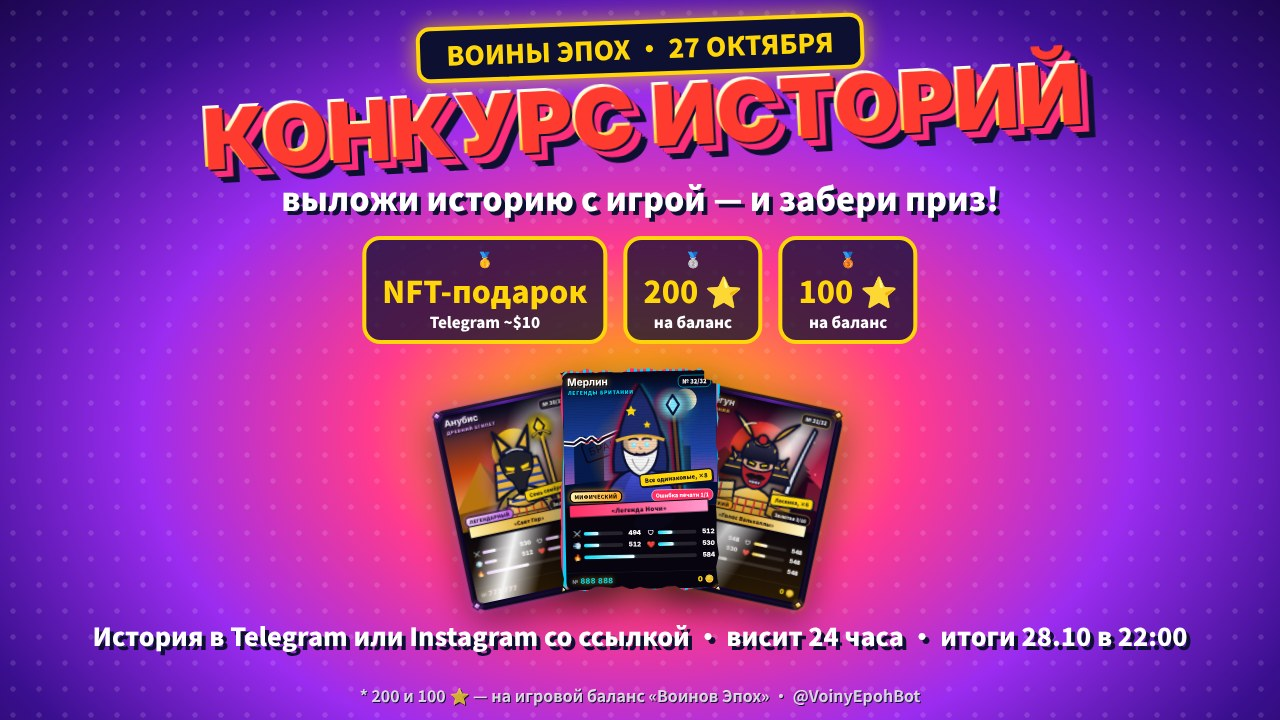
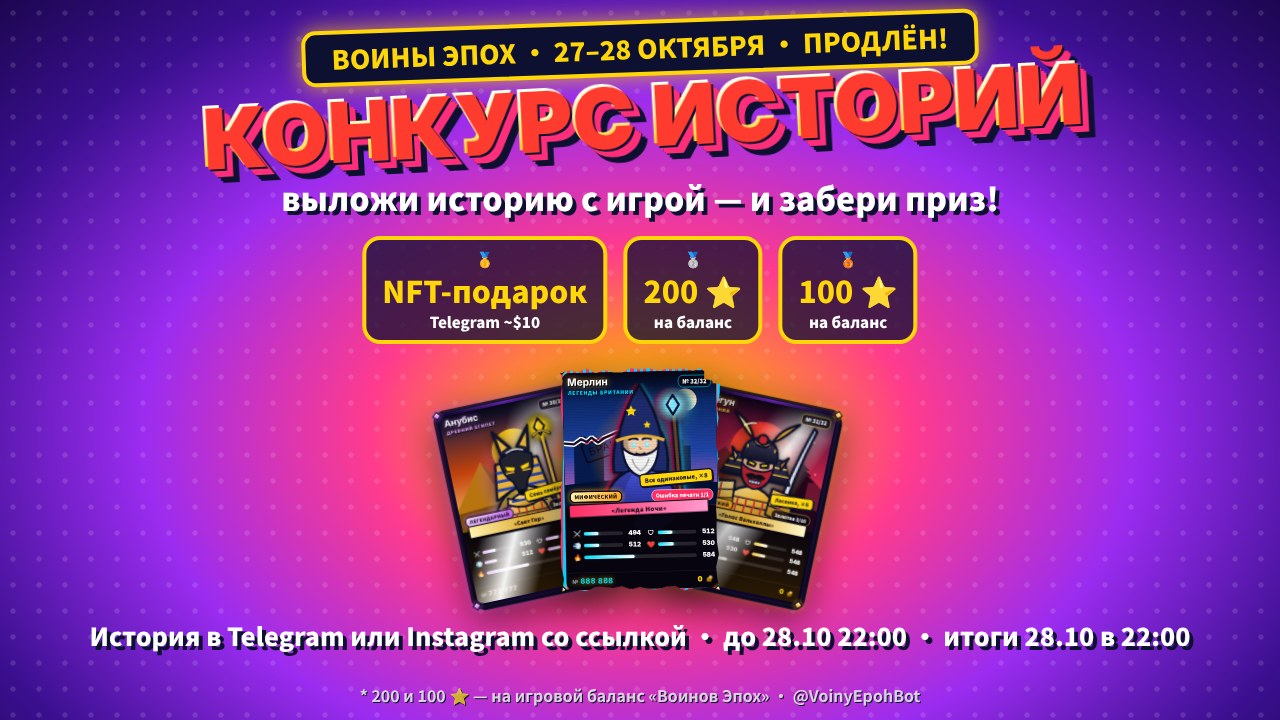
Конкурс историй продлён до 28.10 22:00: новые тексты рассылки и поста на 2-й день, баннер в игре
Claude-Session: https://claude.ai/code/session_01WBNLLAZ4HxPKvodtiyTWHg

Changed region(s): [[0.0625, 0.8556, 0.9375, 0.9167], [0.2188, 0.0, 0.7812, 0.1528]]

diff --git a/server/server.js b/server/server.js
@@ -1061,7 +1061,7 @@ async function onUpdate(env,upd){
    Рассылка ботом в слоты (минское время), итоги — в конце. Настройки можно переопределить в kv "chal". */
 const CHAL_OPEN=3,CHAL_LATE=50*60e3;
 /* розыгрыш (lot): от C.min друзей — участник, каждый друг = билет, победитель один, выбирается случайно по билетам */
-const CHAL_DEFAULT={id:"2026-10-27",story:1,start:Date.UTC(2026,9,27,5,30),end:Date.UTC(2026,9,27,19),resAt:Date.UTC(2026,9,28,19),prizes:["NFT-подарок Telegram (~$10)","200 ⭐","100 ⭐"],bal:[0,200,100],img:"assets/post-story.jpg?v=1",storyImg:"assets/story-contest.jpg?v=1",slots:[8.5,11.5,14.5,17.5,19,20,21],chanSlots:[8.5,10,14,17.5,21],chan:"@voinyepoh"};
+const CHAL_DEFAULT={id:"2026-10-27",story:1,ext:1,start:Date.UTC(2026,9,27,5,30),end:Date.UTC(2026,9,28,19),resAt:Date.UTC(2026,9,28,19),prizes:["NFT-подарок Telegram (~$10)","200 ⭐","100 ⭐"],bal:[0,200,100],img:"assets/post-story.jpg?v=2",storyImg:"assets/story-contest.jpg?v=1",slots:[8.5,11.5,14.5,17.5,19,20,21],chanSlots:[8.5,10,14,17.5,21],chan:"@voinyepoh"};
 /* секретный приз 25.10: бесценная карточка-коллаборация «Воины Эпох × Номерок» А777МР 77. До финала не раскрываем */
 const SEC_LINE="🎁 Главный приз — СЕКРЕТ 🤫\n💰 Суммарно он стоит больше, чем все наши прошлые конкурсы — в районе $100\n🤝 Это подарок лично от игры «Номерок»";
 const PZ=C=>C.secret?"СЕКРЕТНОГО ПРИЗА":C.multi?"600 ⭐":C.prizes[0], PZl=C=>C.secret?"секретного приза":C.multi?"600 ⭐":C.prizes[0];
@@ -1109,12 +1109,16 @@ function lotText(C,slot,rows,now){const last=slot===C.slots.length-1,hook=lotHoo
   return (last?"⏰ ПОСЛЕДНИЙ ЧАС! До розыгрыша "+fmtLeft(C.end-now):"🎟 РОЗЫГРЫШ "+PZ(C)+" ИДЁТ — до конца "+fmtLeft(C.end-now))+"\n\n"+(C.secret?SEC_LINE+"\n\n":"")+hook+"\n\n🎟 Каждый друг = +1 билет. Друг твоего друга тоже считается!\n\n"+CHAL_X2+(C.multi?"\n\n"+ML(C):"")+"\n\nВ "+hmM(C.end)+" бот выберет "+W1(C)+" случайно по билетам 👇"}
 /* ---------- конкурс историй: выложи историю с игрой в Telegram/Instagram, она должна провисеть 24 часа ---------- */
 const STP=C=>"🥇 "+C.prizes[0]+"\n🥈 "+C.prizes[1]+" на игровой баланс\n🥉 "+C.prizes[2]+" на игровой баланс";
-const ST_HOW=C=>"1⃣ Открой игру → блок «📸 Конкурс историй» на главной\n2⃣ Возьми фото и свою ссылку на бота\n3⃣ Выложи историю в Telegram или Instagram со ссылкой\n4⃣ Нажми «Я выложил» и укажи свой ник\n\n⏳ История должна провисеть 24 часа — выложить можно до "+hmM(C.end)+", итоги завтра в "+hmM(C.resAt)+". Победителей выберем случайно среди тех, у кого история висела сутки";
-function storyText(C,slot,now){const last=slot===C.slots.length-1;
-  if(slot===0)return "📸 СТАРТ! КОНКУРС ИСТОРИЙ — ПРИЗЫ ТРЁМ ПОБЕДИТЕЛЯМ\n\n"+STP(C)+"\n\nЧто нужно сделать:\n"+ST_HOW(C)+"\n\nЧем раньше выложишь — тем больше друзей придёт по твоей ссылке, а за каждого ты ещё и получаешь прокрутки 🔥";
-  return (last?"⏰ ПОСЛЕДНИЙ ЧАС, чтобы выложить историю! До "+hmM(C.end)+" — "+fmtLeft(C.end-now):"📸 Конкурс историй идёт — выложить можно до "+hmM(C.end))+"\n\n"+STP(C)+"\n\n"+ST_HOW(C)}
-function storyChan(C,k,now){const bot="\n\n👉 @VoinyEpohBot";if(k===0)return {photo:1,text:"📸 КОНКУРС ИСТОРИЙ «ВОИНОВ ЭПОХ»!\n\n"+STP(C)+"\n\nКак участвовать:\n"+ST_HOW(C)+"\n\n"+LOT_PAID+bot};
-  return {text:(k===C.chanSlots.length-1?"⏰ Последний час конкурса историй — успей выложить до "+hmM(C.end)+"!":"📸 Конкурс историй идёт до "+hmM(C.end)+"!")+"\n\n"+STP(C)+"\n\nФото и ссылка для истории — в игре, блок «📸 Конкурс историй». История должна провисеть 24 часа, итоги завтра в "+hmM(C.resAt)+" 🍀"+bot}}
+const stDay=(C,now)=>mskDay(now)===mskDay(C.end)?"сегодня":"завтра", stEnd=(C,now)=>(mskDay(now)===mskDay(C.end)?"сегодня до ":"до завтра, ")+hmM(C.end);
+const ST_HOW=(C,now)=>"1⃣ Открой игру → блок «📸 Конкурс историй» на главной\n2⃣ Возьми фото и свою ссылку на бота\n3⃣ Выложи историю в Telegram или Instagram со ссылкой\n4⃣ Нажми «Я выложил» и укажи свой ник\n\n⏳ Выложить можно "+stEnd(C,now||Date.now())+". Не удаляй историю 24 часа — победителя попросим показать её в архиве историй. Итоги "+stDay(C,now||Date.now())+" в "+hmM(C.resAt)+", победителей выберем случайно";
+function storyText(C,slot,now){const last=slot===C.slots.length-1,d2=C.ext&&mskDay(now)!==mskDay(C.start),lastDay=mskDay(now)===mskDay(C.end);
+  if(slot===0&&d2)return "🔥 ВЫ ПРОСИЛИ — МЫ ПРОДЛИЛИ! КОНКУРС ИСТОРИЙ ИДЁТ 2 ДНЯ\n\nМногие не успели выложить историю вчера — поэтому даём ещё целый день! Сегодня последний шанс забрать призы:\n\n"+STP(C)+"\n\nЧто нужно сделать:\n"+ST_HOW(C,now)+"\n\nУже участвуешь? Ничего делать не нужно — ты в розыгрыше 🍀 Зови друзей, пусть тоже успеют!";
+  if(slot===0)return "📸 СТАРТ! КОНКУРС ИСТОРИЙ — ПРИЗЫ ТРЁМ ПОБЕДИТЕЛЯМ\n\n"+STP(C)+"\n\nЧто нужно сделать:\n"+ST_HOW(C,now)+"\n\nЧем раньше выложишь — тем больше друзей придёт по твоей ссылке, а за каждого ты ещё и получаешь прокрутки 🔥";
+  return (last&&lastDay?"⏰ ПОСЛЕДНИЙ ЧАС КОНКУРСА! До итогов "+fmtLeft(C.end-now):d2?"🔥 Последний день конкурса историй — успей выложить "+stEnd(C,now):C.ext?"📸 Конкурс историй продлён на 2 дня — выложить можно "+stEnd(C,now):"📸 Конкурс историй идёт — выложить можно "+stEnd(C,now))+"\n\n"+STP(C)+"\n\n"+ST_HOW(C,now)}
+function storyChan(C,k,now){const bot="\n\n👉 @VoinyEpohBot",d2=C.ext&&mskDay(now)!==mskDay(C.start),lastDay=mskDay(now)===mskDay(C.end);
+  if(k===0&&d2)return {photo:1,text:"🔥 КОНКУРС ИСТОРИЙ ПРОДЛЁН — ЕЩЁ ОДИН ДЕНЬ!\n\nВы просили — мы продлили: сегодня последний шанс выложить историю и забрать призы.\n\n"+STP(C)+"\n\nКак участвовать:\n"+ST_HOW(C,now)+"\n\n"+LOT_PAID+bot};
+  if(k===0)return {photo:1,text:"📸 КОНКУРС ИСТОРИЙ «ВОИНОВ ЭПОХ»!\n\n"+STP(C)+"\n\nКак участвовать:\n"+ST_HOW(C,now)+"\n\n"+LOT_PAID+bot};
+  return {text:(k===C.chanSlots.length-1&&lastDay?"⏰ Последний час конкурса историй — итоги в "+hmM(C.end)+"!":"📸 Конкурс историй идёт "+stEnd(C,now)+"!")+"\n\n"+STP(C)+"\n\nФото и ссылка для истории — в игре, блок «📸 Конкурс историй». Итоги "+stDay(C,now)+" в "+hmM(C.resAt)+" 🍀"+bot}}
 function chalText(C,slot,rows,now){if(C.story)return storyText(C,slot,now);if(C.lot)return lotText(C,slot,rows,now);const last=slot===C.slots.length-1,pr=chalPrizes(C);
   const top=rows.slice(0,3).map((r,k)=>MEDAL[k]+" "+r.name+" — "+r.n).join("\n");
   if(C.ext&&C.slots[slot]===C.ext)return "⏰ ВЫ ПРОСИЛИ — МЫ ПРОДЛИЛИ!\n\nМногие были на работе, в школе и по делам и не успели позвать друзей. Поэтому челлендж продлён до "+hmM(C.end)+"! 🔥\n\n"+chalHook(C,rows)+"\n\n"+(top?"Сейчас в топе:\n"+top+"\n\n":"")+"Призы:\n"+pr+"\n\n"+CHAL_X2+"\n\nЖми «Пригласить» и отправляй ссылку 👇";
@@ -1173,6 +1177,7 @@ async function chalTick(env){if(chalBusy)return chalBusy;chalBusy=(async()=>{con
   if(now<C.end)await chanCheck(env,C);
   if(now<C.start-3600e3)return;
   const st=(await kvGet(env,"chal_st:"+C.id))||{slot:-1,after:0,fin:0,ch:{}};st.ch=st.ch||{};
+  {const dk=mskDay(now);if(!st.day)st.day=dk;else if(st.day!==dk){st.day=dk;st.slot=-1;st.after=0;st.done=0;st.n=0;st.cs={};st.ch={}}}   // многодневный конкурс: расписание рассылок заново каждый день
   // итоги: фиксируем таблицу и пишем победителям, админу и в канал
   if(now>=C.end&&!st.fin&&!C.story){delete topCache.chalb;const rows=(await chalBoard(env,C)).slice(0,50);await kvSet(env,"chal_res:"+C.id,{rows,at:now});st.fin=1;st.res=0;await kvSet(env,"chal_st:"+C.id,st)}
   if(st.fin===1&&!st.res&&C.lot){st.res=1;await kvSet(env,"chal_st:"+C.id,st);const R=(await kvGet(env,"chal_res:"+C.id))||{},rows=R.rows||[];
@@ -1225,7 +1230,7 @@ async function storyJoin(env,me,p){const C=await chalCfg(env),now=Date.now();if(
 async function storyDraw(env,C){const E=(await env.DB.prepare("SELECT s.uid,s.tg,s.ig,COALESCE(u.nick,u.name) AS name FROM story_entries s JOIN users u ON u.id=s.uid WHERE s.contest=?").bind(C.id).all()).results;
   const pick=[];const P=E.slice();while(pick.length<6&&P.length){const b=new Uint32Array(1);crypto.getRandomValues(b);pick.push(P.splice(b[0]%P.length,1)[0])}
   const R={win:pick.slice(0,3).map((w,k)=>({...w,place:k+1,ok:0})),res:pick.slice(3),total:E.length,conf:0};await kvSet(env,"story_res:"+C.id,R);
-  for(const a of ADMINS)await notify(env,a,"📸 Итоги конкурса историй: участников "+E.length+".\n\nПобедители (проверь, что история висела сутки):\n"+(R.win.map(w=>MEDAL[w.place-1]+" "+w.name+" (id "+w.uid+")"+(w.tg?" · TG @"+w.tg:"")+(w.ig?" · IG @"+w.ig:"")).join("\n")||"никого")+(R.res.length?"\n\nЗапасные:\n"+R.res.map(w=>w.name+" (id "+w.uid+")"+(w.tg?" · TG @"+w.tg:"")+(w.ig?" · IG @"+w.ig:"")).join("\n"):"")+"\n\nПодтверди или замени в игре: Профиль → Топ → статистика → «📸 Итоги конкурса историй».","⚔ Открыть")}
+  for(const a of ADMINS)await notify(env,a,"📸 Итоги конкурса историй: участников "+E.length+".\n\nПобедители (проверь, что история висела сутки):\n"+(R.win.map(w=>MEDAL[w.place-1]+" "+w.name+" (id "+w.uid+")"+(w.tg?" · TG @"+w.tg:"")+(w.ig?" · IG @"+w.ig:"")).join("\n")||"никого")+(R.res.length?"\n\nЗапасные:\n"+R.res.map(w=>w.name+" (id "+w.uid+")"+(w.tg?" · TG @"+w.tg:"")+(w.ig?" · IG @"+w.ig:"")).join("\n"):"")+"\n\nИстории могли уже пропасть (живут 24 часа), поэтому попроси у победителя скрин из архива историй с датой и просмотрами. Подтверди или замени в игре: Профиль → Топ → статистика → «📸 Итоги конкурса историй».","⚔ Открыть")}
 async function storyAdmin(env,me,a,p){if(!isAdmin(env,me.id))fail("Нет доступа");const C=await chalCfg(env);if(!C||!C.story)fail("Нет конкурса историй");const R=await kvGet(env,"story_res:"+C.id);
   if(a==="story_res")return {id:C.id,resAt:C.resAt,prizes:C.prizes,R};if(!R)fail("Итогов ещё нет");const w=R.win.find(x=>x.place===(p.place|0));if(!w)fail("Нет такого места");if(w.ok)fail("Уже подтверждён");
   if(a==="story_no"){const nx=R.res.shift();if(!nx){R.win=R.win.filter(x=>x!==w)}else Object.assign(w,{uid:nx.uid,tg:nx.tg,ig:nx.ig,name:nx.name,ok:0});await kvSet(env,"story_res:"+C.id,R);return {R}}

diff --git a/server/worker.js b/server/worker.js
@@ -1869,7 +1869,7 @@ async function onUpdate(env,upd){
    Рассылка ботом в слоты (минское время), итоги — в конце. Настройки можно переопределить в kv "chal". */
 const CHAL_OPEN=3,CHAL_LATE=50*60e3;
 /* розыгрыш (lot): от C.min друзей — участник, каждый друг = билет, победитель один, выбирается случайно по билетам */
-const CHAL_DEFAULT={id:"2026-10-27",story:1,start:Date.UTC(2026,9,27,5,30),end:Date.UTC(2026,9,27,19),resAt:Date.UTC(2026,9,28,19),prizes:["NFT-подарок Telegram (~$10)","200 ⭐","100 ⭐"],bal:[0,200,100],img:"assets/post-story.jpg?v=1",storyImg:"assets/story-contest.jpg?v=1",slots:[8.5,11.5,14.5,17.5,19,20,21],chanSlots:[8.5,10,14,17.5,21],chan:"@voinyepoh"};
+const CHAL_DEFAULT={id:"2026-10-27",story:1,ext:1,start:Date.UTC(2026,9,27,5,30),end:Date.UTC(2026,9,28,19),resAt:Date.UTC(2026,9,28,19),prizes:["NFT-подарок Telegram (~$10)","200 ⭐","100 ⭐"],bal:[0,200,100],img:"assets/post-story.jpg?v=2",storyImg:"assets/story-contest.jpg?v=1",slots:[8.5,11.5,14.5,17.5,19,20,21],chanSlots:[8.5,10,14,17.5,21],chan:"@voinyepoh"};
 /* секретный приз 25.10: бесценная карточка-коллаборация «Воины Эпох × Номерок» А777МР 77. До финала не раскрываем */
 const SEC_LINE="🎁 Главный приз — СЕКРЕТ 🤫\n💰 Суммарно он стоит больше, чем все наши прошлые конкурсы — в районе $100\n🤝 Это подарок лично от игры «Номерок»";
 const PZ=C=>C.secret?"СЕКРЕТНОГО ПРИЗА":C.multi?"600 ⭐":C.prizes[0], PZl=C=>C.secret?"секретного приза":C.multi?"600 ⭐":C.prizes[0];
@@ -1917,12 +1917,16 @@ function lotText(C,slot,rows,now){const last=slot===C.slots.length-1,hook=lotHoo
   return (last?"⏰ ПОСЛЕДНИЙ ЧАС! До розыгрыша "+fmtLeft(C.end-now):"🎟 РОЗЫГРЫШ "+PZ(C)+" ИДЁТ — до конца "+fmtLeft(C.end-now))+"\n\n"+(C.secret?SEC_LINE+"\n\n":"")+hook+"\n\n🎟 Каждый друг = +1 билет. Друг твоего друга тоже считается!\n\n"+CHAL_X2+(C.multi?"\n\n"+ML(C):"")+"\n\nВ "+hmM(C.end)+" бот выберет "+W1(C)+" случайно по билетам 👇"}
 /* ---------- конкурс историй: выложи историю с игрой в Telegram/Instagram, она должна провисеть 24 часа ---------- */
 const STP=C=>"🥇 "+C.prizes[0]+"\n🥈 "+C.prizes[1]+" на игровой баланс\n🥉 "+C.prizes[2]+" на игровой баланс";
-const ST_HOW=C=>"1⃣ Открой игру → блок «📸 Конкурс историй» на главной\n2⃣ Возьми фото и свою ссылку на бота\n3⃣ Выложи историю в Telegram или Instagram со ссылкой\n4⃣ Нажми «Я выложил» и укажи свой ник\n\n⏳ История должна провисеть 24 часа — выложить можно до "+hmM(C.end)+", итоги завтра в "+hmM(C.resAt)+". Победителей выберем случайно среди тех, у кого история висела сутки";
-function storyText(C,slot,now){const last=slot===C.slots.length-1;
-  if(slot===0)return "📸 СТАРТ! КОНКУРС ИСТОРИЙ — ПРИЗЫ ТРЁМ ПОБЕДИТЕЛЯМ\n\n"+STP(C)+"\n\nЧто нужно сделать:\n"+ST_HOW(C)+"\n\nЧем раньше выложишь — тем больше друзей придёт по твоей ссылке, а за каждого ты ещё и получаешь прокрутки 🔥";
-  return (last?"⏰ ПОСЛЕДНИЙ ЧАС, чтобы выложить историю! До "+hmM(C.end)+" — "+fmtLeft(C.end-now):"📸 Конкурс историй идёт — выложить можно до "+hmM(C.end))+"\n\n"+STP(C)+"\n\n"+ST_HOW(C)}
-function storyChan(C,k,now){const bot="\n\n👉 @VoinyEpohBot";if(k===0)return {photo:1,text:"📸 КОНКУРС ИСТОРИЙ «ВОИНОВ ЭПОХ»!\n\n"+STP(C)+"\n\nКак участвовать:\n"+ST_HOW(C)+"\n\n"+LOT_PAID+bot};
-  return {text:(k===C.chanSlots.length-1?"⏰ Последний час конкурса историй — успей выложить до "+hmM(C.end)+"!":"📸 Конкурс историй идёт до "+hmM(C.end)+"!")+"\n\n"+STP(C)+"\n\nФото и ссылка для истории — в игре, блок «📸 Конкурс историй». История должна провисеть 24 часа, итоги завтра в "+hmM(C.resAt)+" 🍀"+bot}}
+const stDay=(C,now)=>mskDay(now)===mskDay(C.end)?"сегодня":"завтра", stEnd=(C,now)=>(mskDay(now)===mskDay(C.end)?"сегодня до ":"до завтра, ")+hmM(C.end);
+const ST_HOW=(C,now)=>"1⃣ Открой игру → блок «📸 Конкурс историй» на главной\n2⃣ Возьми фото и свою ссылку на бота\n3⃣ Выложи историю в Telegram или Instagram со ссылкой\n4⃣ Нажми «Я выложил» и укажи свой ник\n\n⏳ Выложить можно "+stEnd(C,now||Date.now())+". Не удаляй историю 24 часа — победителя попросим показать её в архиве историй. Итоги "+stDay(C,now||Date.now())+" в "+hmM(C.resAt)+", победителей выберем случайно";
+function storyText(C,slot,now){const last=slot===C.slots.length-1,d2=C.ext&&mskDay(now)!==mskDay(C.start),lastDay=mskDay(now)===mskDay(C.end);
+  if(slot===0&&d2)return "🔥 ВЫ ПРОСИЛИ — МЫ ПРОДЛИЛИ! КОНКУРС ИСТОРИЙ ИДЁТ 2 ДНЯ\n\nМногие не успели выложить историю вчера — поэтому даём ещё целый день! Сегодня последний шанс забрать призы:\n\n"+STP(C)+"\n\nЧто нужно сделать:\n"+ST_HOW(C,now)+"\n\nУже участвуешь? Ничего делать не нужно — ты в розыгрыше 🍀 Зови друзей, пусть тоже успеют!";
+  if(slot===0)return "📸 СТАРТ! КОНКУРС ИСТОРИЙ — ПРИЗЫ ТРЁМ ПОБЕДИТЕЛЯМ\n\n"+STP(C)+"\n\nЧто нужно сделать:\n"+ST_HOW(C,now)+"\n\nЧем раньше выложишь — тем больше друзей придёт по твоей ссылке, а за каждого ты ещё и получаешь прокрутки 🔥";
+  return (last&&lastDay?"⏰ ПОСЛЕДНИЙ ЧАС КОНКУРСА! До итогов "+fmtLeft(C.end-now):d2?"🔥 Последний день конкурса историй — успей выложить "+stEnd(C,now):C.ext?"📸 Конкурс историй продлён на 2 дня — выложить можно "+stEnd(C,now):"📸 Конкурс историй идёт — выложить можно "+stEnd(C,now))+"\n\n"+STP(C)+"\n\n"+ST_HOW(C,now)}
+function storyChan(C,k,now){const bot="\n\n👉 @VoinyEpohBot",d2=C.ext&&mskDay(now)!==mskDay(C.start),lastDay=mskDay(now)===mskDay(C.end);
+  if(k===0&&d2)return {photo:1,text:"🔥 КОНКУРС ИСТОРИЙ ПРОДЛЁН — ЕЩЁ ОДИН ДЕНЬ!\n\nВы просили — мы продлили: сегодня последний шанс выложить историю и забрать призы.\n\n"+STP(C)+"\n\nКак участвовать:\n"+ST_HOW(C,now)+"\n\n"+LOT_PAID+bot};
+  if(k===0)return {photo:1,text:"📸 КОНКУРС ИСТОРИЙ «ВОИНОВ ЭПОХ»!\n\n"+STP(C)+"\n\nКак участвовать:\n"+ST_HOW(C,now)+"\n\n"+LOT_PAID+bot};
+  return {text:(k===C.chanSlots.length-1&&lastDay?"⏰ Последний час конкурса историй — итоги в "+hmM(C.end)+"!":"📸 Конкурс историй идёт "+stEnd(C,now)+"!")+"\n\n"+STP(C)+"\n\nФото и ссылка для истории — в игре, блок «📸 Конкурс историй». Итоги "+stDay(C,now)+" в "+hmM(C.resAt)+" 🍀"+bot}}
 function chalText(C,slot,rows,now){if(C.story)return storyText(C,slot,now);if(C.lot)return lotText(C,slot,rows,now);const last=slot===C.slots.length-1,pr=chalPrizes(C);
   const top=rows.slice(0,3).map((r,k)=>MEDAL[k]+" "+r.name+" — "+r.n).join("\n");
   if(C.ext&&C.slots[slot]===C.ext)return "⏰ ВЫ ПРОСИЛИ — МЫ ПРОДЛИЛИ!\n\nМногие были на работе, в школе и по делам и не успели позвать друзей. Поэтому челлендж продлён до "+hmM(C.end)+"! 🔥\n\n"+chalHook(C,rows)+"\n\n"+(top?"Сейчас в топе:\n"+top+"\n\n":"")+"Призы:\n"+pr+"\n\n"+CHAL_X2+"\n\nЖми «Пригласить» и отправляй ссылку 👇";
@@ -1981,6 +1985,7 @@ async function chalTick(env){if(chalBusy)return chalBusy;chalBusy=(async()=>{con
   if(now<C.end)await chanCheck(env,C);
   if(now<C.start-3600e3)return;
   const st=(await kvGet(env,"chal_st:"+C.id))||{slot:-1,after:0,fin:0,ch:{}};st.ch=st.ch||{};
+  {const dk=mskDay(now);if(!st.day)st.day=dk;else if(st.day!==dk){st.day=dk;st.slot=-1;st.after=0;st.done=0;st.n=0;st.cs={};st.ch={}}}   // многодневный конкурс: расписание рассылок заново каждый день
   // итоги: фиксируем таблицу и пишем победителям, админу и в канал
   if(now>=C.end&&!st.fin&&!C.story){delete topCache.chalb;const rows=(await chalBoard(env,C)).slice(0,50);await kvSet(env,"chal_res:"+C.id,{rows,at:now});st.fin=1;st.res=0;await kvSet(env,"chal_st:"+C.id,st)}
   if(st.fin===1&&!st.res&&C.lot){st.res=1;await kvSet(env,"chal_st:"+C.id,st);const R=(await kvGet(env,"chal_res:"+C.id))||{},rows=R.rows||[];
@@ -2033,7 +2038,7 @@ async function storyJoin(env,me,p){const C=await chalCfg(env),now=Date.now();if(
 async function storyDraw(env,C){const E=(await env.DB.prepare("SELECT s.uid,s.tg,s.ig,COALESCE(u.nick,u.name) AS name FROM story_entries s JOIN users u ON u.id=s.uid WHERE s.contest=?").bind(C.id).all()).results;
   const pick=[];const P=E.slice();while(pick.length<6&&P.length){const b=new Uint32Array(1);crypto.getRandomValues(b);pick.push(P.splice(b[0]%P.length,1)[0])}
   const R={win:pick.slice(0,3).map((w,k)=>({...w,place:k+1,ok:0})),res:pick.slice(3),total:E.length,conf:0};await kvSet(env,"story_res:"+C.id,R);
-  for(const a of ADMINS)await notify(env,a,"📸 Итоги конкурса историй: участников "+E.length+".\n\nПобедители (проверь, что история висела сутки):\n"+(R.win.map(w=>MEDAL[w.place-1]+" "+w.name+" (id "+w.uid+")"+(w.tg?" · TG @"+w.tg:"")+(w.ig?" · IG @"+w.ig:"")).join("\n")||"никого")+(R.res.length?"\n\nЗапасные:\n"+R.res.map(w=>w.name+" (id "+w.uid+")"+(w.tg?" · TG @"+w.tg:"")+(w.ig?" · IG @"+w.ig:"")).join("\n"):"")+"\n\nПодтверди или замени в игре: Профиль → Топ → статистика → «📸 Итоги конкурса историй».","⚔ Открыть")}
+  for(const a of ADMINS)await notify(env,a,"📸 Итоги конкурса историй: участников "+E.length+".\n\nПобедители (проверь, что история висела сутки):\n"+(R.win.map(w=>MEDAL[w.place-1]+" "+w.name+" (id "+w.uid+")"+(w.tg?" · TG @"+w.tg:"")+(w.ig?" · IG @"+w.ig:"")).join("\n")||"никого")+(R.res.length?"\n\nЗапасные:\n"+R.res.map(w=>w.name+" (id "+w.uid+")"+(w.tg?" · TG @"+w.tg:"")+(w.ig?" · IG @"+w.ig:"")).join("\n"):"")+"\n\nИстории могли уже пропасть (живут 24 часа), поэтому попроси у победителя скрин из архива историй с датой и просмотрами. Подтверди или замени в игре: Профиль → Топ → статистика → «📸 Итоги конкурса историй».","⚔ Открыть")}
 async function storyAdmin(env,me,a,p){if(!isAdmin(env,me.id))fail("Нет доступа");const C=await chalCfg(env);if(!C||!C.story)fail("Нет конкурса историй");const R=await kvGet(env,"story_res:"+C.id);
   if(a==="story_res")return {id:C.id,resAt:C.resAt,prizes:C.prizes,R};if(!R)fail("Итогов ещё нет");const w=R.win.find(x=>x.place===(p.place|0));if(!w)fail("Нет такого места");if(w.ok)fail("Уже подтверждён");
   if(a==="story_no"){const nx=R.res.shift();if(!nx){R.win=R.win.filter(x=>x!==w)}else Object.assign(w,{uid:nx.uid,tg:nx.tg,ig:nx.ig,name:nx.name,ok:0});await kvSet(env,"story_res:"+C.id,R);return {R}}

diff --git a/wow.js b/wow.js
@@ -845,7 +845,7 @@ function drawStory(C){const box=$("chal");if(!box)return;box.hidden=false;box.cl
   box.querySelector(".chal-h span").textContent="📸 КОНКУРС ИСТОРИЙ";
   if(box.contains(document.activeElement)&&document.activeElement.tagName==="INPUT")return;   // не мешаем печатать
   const key=JSON.stringify([C.phase,C.me,C.players,C.came,C.winners]);if(box.dataset.sk===key)return;box.dataset.sk=key;
-  $("chal-t").textContent=C.phase==="soon"?"Завтра с "+hm(C.start)+" до "+hm(C.end)+": выложи историю с нашей игрой в Telegram или Instagram — и участвуй в розыгрыше!":C.phase==="on"?"Выложи историю с игрой в Telegram или Instagram до "+hm(C.end)+". История должна провисеть 24 часа — итоги "+dd(C.resAt)+" в "+hm(C.resAt)+". Победителей выберем случайно среди честных участников.":C.phase==="wait"?"Приём историй закрыт. Не удаляй свою историю — она должна провисеть сутки! Итоги "+dd(C.resAt)+" в "+hm(C.resAt)+".":"Итоги подведены!";
+  $("chal-t").textContent=C.phase==="soon"?"Завтра с "+hm(C.start)+" до "+hm(C.end)+": выложи историю с нашей игрой в Telegram или Instagram — и участвуй в розыгрыше!":C.phase==="on"?(dd(C.end)!==dd(NOW())?"🔥 Конкурс продлён на 2 дня! ":"⏰ Последний день! ")+"Выложи историю с игрой в Telegram или Instagram до "+dd(C.end)+" "+hm(C.end)+" и не удаляй её 24 часа. Итоги "+dd(C.resAt)+" в "+hm(C.resAt)+", победителей выберем случайно.":C.phase==="wait"?"Приём историй закрыт. Не удаляй свою историю — она должна провисеть сутки! Итоги "+dd(C.resAt)+" в "+hm(C.resAt)+".":"Итоги подведены!";
   $("chal-p").innerHTML=C.prizes.map((p,k)=>'<div>'+["🥇","🥈","🥉"][k]+'<b>'+(k?p:"NFT 🎁")+'</b>'+(k?"на баланс":"~$10 подарок")+'</div>').join("");
   const me=$("chal-me");const joined=!!C.me;
   me.innerHTML=(C.phase==="on"||C.phase==="soon")?'<div class="sty"><div class="sty-s"><b>1</b><span>Возьми фото для истории</span></div><div class="sty-b">'+(tg&&tg.shareToStory?'<button type="button" class="craftbtn" id="st-share">📲 Выложить в Telegram</button>':'')+'<button type="button" class="mini2" id="st-dl">⬇ Скачать фото</button></div>'+
@@ -857,7 +857,7 @@ function drawStory(C){const box=$("chal");if(!box)return;box.hidden=false;box.cl
   $("chal-top").innerHTML='<div class="sty-n">👥 Участников: <b>'+C.players+'</b> · по твоей ссылке пришли: <b>'+C.came+'</b></div>'+(C.winners?'<div class="sty-w">'+C.winners.map(w=>["🥇","🥈","🥉"][w.place-1]+' <span data-wn="'+w.place+'"></span>').join("<br>")+'</div>':"");
   if(C.winners)C.winners.forEach(w=>{const e=box.querySelector('[data-wn="'+w.place+'"]');if(e)e.textContent=w.name});
   $("chal-go").hidden=true;
-  $("chal-rules").textContent="Выложи историю в Telegram или Instagram с фото из игры и ссылкой на бота с "+hm(C.start)+" до "+hm(C.end)+" и нажми «Я выложил». История должна провисеть не меньше 24 часов — до итогов "+dd(C.resAt)+" в "+hm(C.resAt)+". Победителей бот выбирает случайно, затем администратор проверяет, что история висела сутки; если нет — приз уходит запасному участнику. Призы: 🥇 "+C.prizes[0]+", 🥈 "+C.prizes[1]+" и 🥉 "+C.prizes[2]+" на игровой баланс (тратятся на покупки в игре). Профиль в Instagram должен быть открытым, а история в Telegram — видна всем. Время — минское.";
+  $("chal-rules").textContent="Выложи историю в Telegram или Instagram с фото из игры и ссылкой на бота с "+dd(C.start)+" "+hm(C.start)+" до "+dd(C.end)+" "+hm(C.end)+" и нажми «Я выложил». Не удаляй историю 24 часа. Итоги "+dd(C.resAt)+" в "+hm(C.resAt)+": победителей бот выбирает случайно, затем администратор просит у победителя скрин из архива историй (с датой и просмотрами); если история была удалена раньше суток — приз уходит запасному участнику. Призы: 🥇 "+C.prizes[0]+", 🥈 "+C.prizes[1]+" и 🥉 "+C.prizes[2]+" на игровой баланс (тратятся на покупки в игре). Профиль в Instagram должен быть открытым, а история в Telegram — видна всем. Время — минское.";
   const L=$("st-link");if(L)L.textContent=C.link;
   const url=stPageUrl()+C.img;
   if($("st-cp"))$("st-cp").onclick=()=>{try{navigator.clipboard.writeText(C.link);toast("Ссылка скопирована — вставь её в стикер «Ссылка»")}catch(e){toast(C.link)}};
@@ -906,10 +906,10 @@ pmBonusAsk=popWrap(pmBonusAsk,"we-pm-ask2",{newbieSkip:0});
 newsUpd4=popWrap(newsUpd4,"we-news-upd4",{});
 /* объявление о конкурсе историй — всем, кто заходит во время конкурса (один раз) */
 function storyAnnOk(){const C=chData;return !!(S&&ONLINE&&C&&C.story&&C.phase==="on"&&!C.me&&S.nick&&!termsNeed())}
-function storyAnnWaiting(){if(!storyAnnOk())return false;try{return !localStorage.getItem("we-story-"+chData.id)}catch(e){return false}}
+function storyAnnWaiting(){if(!storyAnnOk())return false;try{return !localStorage.getItem("we-story-"+chData.id+"-"+mskDay(NOW()))}catch(e){return false}}
 function storyAnn(){if(!storyAnnWaiting()||popShown||!$("modal").hidden||document.querySelector(".wsheet,.wrev,.terms,#onb,.onb-hl,.cqbt"))return;const C=chData;
-  try{localStorage.setItem("we-story-"+C.id,"1")}catch(e){return}popShown=true;const m=$("modal"),sh=$("msheet");m.hidden=false;
-  sh.innerHTML='<div class="box nickbox newsb"><h3>📸 Конкурс историй — сегодня!</h3><img src="'+C.img.replace("story-contest","post-story")+'" alt="" style="width:100%;border-radius:14px;border:3px solid var(--ink);margin:4px 0 8px" onerror="this.remove()"><ul><li>🥇 <b>'+esc(C.prizes[0])+'</b></li><li>🥈 <b>'+esc(C.prizes[1])+'</b> на игровой баланс</li><li>🥉 <b>'+esc(C.prizes[2])+'</b> на игровой баланс</li></ul><p>Выложи историю с игрой в Telegram или Instagram до 22:00 — фото и твою ссылку на бота уже приготовили. История должна провисеть 24 часа, итоги завтра в 22:00.</p><button type="button" class="craftbtn" id="sa-go">📸 Участвовать</button><button type="button" class="ghost" id="sa-x">Позже</button></div>';
+  try{localStorage.setItem("we-story-"+C.id+"-"+mskDay(NOW()),"1")}catch(e){return}popShown=true;const m=$("modal"),sh=$("msheet");m.hidden=false;
+  sh.innerHTML='<div class="box nickbox newsb"><h3>📸 Конкурс историй — '+(new Date(C.end+3*3600e3).toISOString().slice(0,10)!==mskDay(NOW())?"2 дня!":"последний день!")+'</h3><img src="'+C.img.replace("story-contest","post-story")+'" alt="" style="width:100%;border-radius:14px;border:3px solid var(--ink);margin:4px 0 8px" onerror="this.remove()"><ul><li>🥇 <b>'+esc(C.prizes[0])+'</b></li><li>🥈 <b>'+esc(C.prizes[1])+'</b> на игровой баланс</li><li>🥉 <b>'+esc(C.prizes[2])+'</b> на игровой баланс</li></ul><p>Выложи историю с игрой в Telegram или Instagram до '+new Date(C.end+3*3600e3).toISOString().slice(8,10)+'.'+new Date(C.end+3*3600e3).toISOString().slice(5,7)+' 22:00 — фото и твою ссылку на бота уже приготовили. Не удаляй историю 24 часа. Итоги — '+new Date(C.resAt+3*3600e3).toISOString().slice(8,10)+'.'+new Date(C.resAt+3*3600e3).toISOString().slice(5,7)+' в 22:00.</p><button type="button" class="craftbtn" id="sa-go">📸 Участвовать</button><button type="button" class="ghost" id="sa-x">Позже</button></div>';
   $("sa-go").onclick=()=>{closeModal();setTab("spin");setTimeout(()=>{const b=$("chal");if(b)b.scrollIntoView({block:"start",behavior:"smooth"})},150)};$("sa-x").onclick=closeModal}
 setInterval(()=>{try{storyAnn()}catch(e){}},3000);
 /* кнопка чата никогда не закрывает другие кнопки: если под ней кнопка или поле — она прячется */

diff --git a/index.html b/index.html
@@ -1,6 +1,6 @@
 <!doctype html>
 <html lang="ru">
-<head><meta name="app-ver" content="a2ac7bd024">
+<head><meta name="app-ver" content="98e48b1ab6">
 <meta charset="utf-8">
 <meta http-equiv="Cache-Control" content="no-cache">
 <meta name="viewport" content="width=device-width,initial-scale=1,maximum-scale=1,user-scalable=no,viewport-fit=cover">
@@ -336,6 +336,6 @@
 <div class="modal" id="modal" hidden><div class="sheet" id="msheet"></div></div>
 <script src="rules.js?v=155c391d"></script>
 <script src="game.js?v=e92bbd93"></script>
-<script src="wow.js?v=f1f72dac"></script>
+<script src="wow.js?v=1a33f5b8"></script>
 </body>
 </html>
